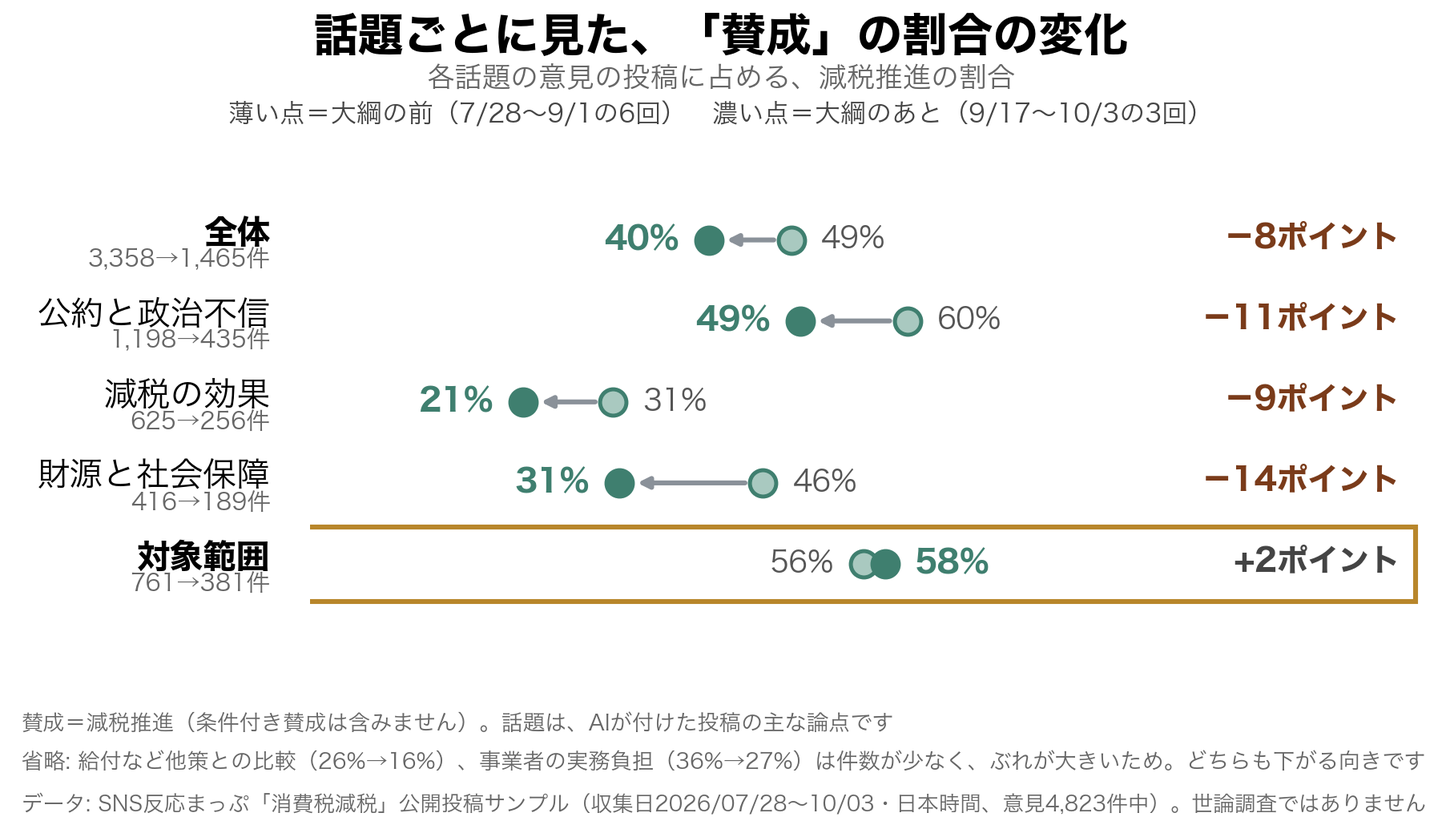
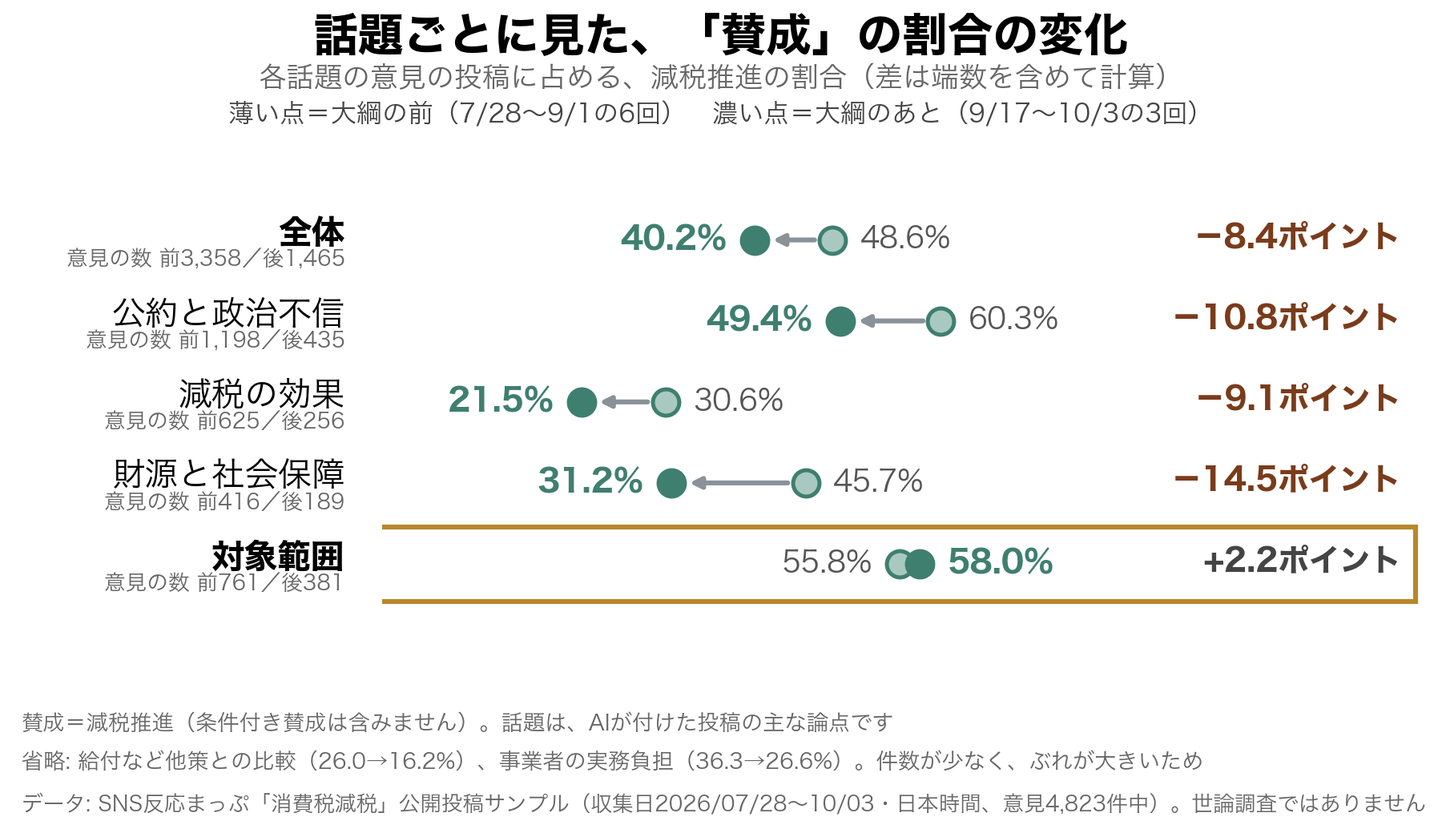
note第4回: 独立確認2回目の指摘を反映する（世論調査の誤差と回答者数、話題の構成、図の表示、一次資料、見出し画像案）

diff --git a/content/note/drafts/figures/consumption-tax-cut4_note-header.html b/content/note/drafts/figures/consumption-tax-cut4_note-header.html
@@ -22,8 +22,8 @@
   .stat .n2{color:#9c3c1a;}
   /* 第4回は、2つの数字（SNSの賛成と世論調査の賛成）を並べる型。矢印の型から外れる（オーナーが決める） */
   .pair .row{display:flex;align-items:baseline;gap:26px;line-height:1.08;white-space:nowrap;}
-  .pair .lab{font-size:84px;font-weight:700;color:#6b5d44;min-width:230px;letter-spacing:.02em;}
-  .pair .num{font-weight:900;font-size:190px;letter-spacing:-.02em;}
+  .pair .lab{font-size:72px;font-weight:700;color:#6b5d44;min-width:200px;letter-spacing:.02em;}
+  .pair .num{font-weight:900;font-size:150px;letter-spacing:-.02em;}
   .pair .n1{color:#1f5c4d;}
   .pair .n2{color:#9c3c1a;}
   .brand{position:absolute;right:44px;bottom:36px;font-size:24px;font-weight:700;letter-spacing:.06em;color:#5c5340;}
@@ -35,7 +35,7 @@
     <div class="scrim"></div>
     <div class="text">
       <div class="eyebrow">消費税減税シリーズ　第4回</div>
-      <div class="pair"><div class="row"><span class="lab">SNS</span><span class="num n1">4割</span></div><div class="row"><span class="lab">世論</span><span class="num n2">5割</span></div></div>
+      <div class="pair"><div class="row"><span class="lab">SNS</span><span class="num n1">49→40%</span></div><div class="row"><span class="lab">世論</span><span class="num n2">48→53%</span></div></div>
     </div>
     <div class="brand">SNS反応まっぷ</div>
   </div>

diff --git a/content/note/drafts/figures/consumption-tax-cut4_build.py b/content/note/drafts/figures/consumption-tax-cut4_build.py
@@ -364,7 +364,7 @@ def show(s: dict) -> None:
     print(f"\n[現金給付への言及] 「支援金」という語を含む意見 {s['support_mentions']}件（うち大綱のあとの3回に{s['support_mentions_post']}件。残りは8/3の別の話題）、「給付付き」「税額控除」に触れる意見 {s['benefit_mentions']}件（意見{s['n_opinion']:,}件中）")
     print("\n[件数の動きは割合の言い直し（記事では件数を根拠に使わない）] 1回の収集で新しく見つかった意見の数（平均）前6回 → あと3回")
     for label, d in s["counts_by_group"].items():
-        print(f"  {label}: " + " / ".join(f"{st[:4]} {a:.0f}→{b:.0f}({(b / a - 1) * 100:+.0f}%)" for st, (a, b) in d.items()))
+        print(f"  {label}: " + " / ".join(f"{st[:4]} {a:.1f}→{b:.1f}({(b / a - 1) * 100:+.0f}%)" for st, (a, b) in d.items()))
     print("  生データ（取得した1ページ全体）の件数と、1検索語あたりの最大件数: " + "、".join(f"{d} {n}件・最大{m}" for d, n, m in s["raw_cap"]))
     nb, ka, na, kb, nb2 = s["both_users_share"]
     print(f"\n[決定の前後の両方に書いた{nb}人だけで見た賛成の割合] {pct(ka, na):.1f}%（{na}投稿）→ {pct(kb, nb2):.1f}%（{nb2}投稿）")
@@ -395,7 +395,7 @@ def figs(s: dict) -> None:
                "世論調査ではありません")
     small = [(i, s["topics"][i]) for i in SMALL]
     note1 = "賛成＝減税推進（条件付き賛成は含みません）。話題は、AIが付けた投稿の主な論点です"
-    note2 = "省略: " + "、".join(f"{i}（{pct(*t['pre']):.0f}%→{pct(*t['post']):.0f}%）" for i, t in small) + "は件数が少なく、ぶれが大きいため。どちらも下がる向きです"
+    note2 = "省略: " + "、".join(f"{i}（{pct(*t['pre']):.1f}→{pct(*t['post']):.1f}%）" for i, t in small) + "。件数が少なく、ぶれが大きいため"
 
     rows = [("全体", s["pre"][PRO], s["post"][PRO])] + [(lab, s["topics"][i]["pre"], s["topics"][i]["post"]) for lab, i in
                                                        (("公約と政治不信", "公約と政治不信"), ("減税の効果", "減税の効果"), ("財源と社会保障", "財源と社会保障"), ("対象範囲", "減税の対象範囲"))]
@@ -411,22 +411,22 @@ def figs(s: dict) -> None:
         ax.scatter([a_], [y], s=140, color=pale, edgecolor=teal, linewidth=1.8, zorder=3)
         ax.scatter([b_], [y], s=140, color=teal, edgecolor=teal, linewidth=1.8, zorder=3)
         lf = a_ < b_
-        ax.text(a_ + (-3.0 if lf else 3.0), y, f"{a_:.0f}%", ha="right" if lf else "left", va="center", fontproperties=reg, fontsize=fs(11), color="#555555", zorder=4)
-        ax.text(b_ + (3.0 if lf else -3.0), y, f"{b_:.0f}%", ha="left" if lf else "right", va="center", fontproperties=bold, fontsize=fs(11.5), color=teal, zorder=4)
+        ax.text(a_ + (-3.0 if lf else 3.0), y, f"{a_:.1f}%", ha="right" if lf else "left", va="center", fontproperties=reg, fontsize=fs(11), color="#555555", zorder=4)
+        ax.text(b_ + (3.0 if lf else -3.0), y, f"{b_:.1f}%", ha="left" if lf else "right", va="center", fontproperties=bold, fontsize=fs(11.5), color=teal, zorder=4)
         diff = b_ - a_
-        ax.text(110, y + 0.03, f"{diff:+.0f}ポイント".replace("-", "−"), ha="right", va="center", fontproperties=bold, fontsize=fs(11.5), color="#7a3b1a" if diff < -4 else "#444444")
+        ax.text(110, y + 0.03, f"{diff:+.1f}ポイント".replace("-", "−"), ha="right", va="center", fontproperties=bold, fontsize=fs(11.5), color="#7a3b1a" if diff < -4 else "#444444")
         ax.text(-4.0, y + 0.07, label, ha="right", va="center", fontproperties=bold if label in ("全体", "対象範囲") else reg, fontsize=fs(12.5))
-        ax.text(-4.0, y - 0.25, f"{na:,}→{nb:,}件", ha="right", va="center", fontproperties=reg, fontsize=fs(8.8), color="#666666")
+        ax.text(-4.0, y - 0.25, f"意見の数 前{na:,}／後{nb:,}", ha="right", va="center", fontproperties=reg, fontsize=fs(8.0), color="#666666")
     ax.set_xlim(0, 112)
     ax.set_ylim(-0.7, len(rows) - 0.3)
     ax.axis("off")
     fig.text(0.5, 0.955, "話題ごとに見た、「賛成」の割合の変化", ha="center", va="center", fontproperties=bold, fontsize=fs(17))
-    fig.text(0.5, 0.905, "各話題の意見の投稿に占める、減税推進の割合", ha="center", va="center", fontproperties=reg, fontsize=fs(10.5), color="#666666")
+    fig.text(0.5, 0.905, "各話題の意見の投稿に占める、減税推進の割合（差は端数を含めて計算）", ha="center", va="center", fontproperties=reg, fontsize=fs(10.5), color="#666666")
     fig.text(0.5, 0.862, "薄い点＝大綱の前（7/28〜9/1の6回）　濃い点＝大綱のあと（9/17〜10/3の3回）", ha="center", va="center", fontproperties=reg, fontsize=fs(9.6), color="#444444")
     fig.text(0.015, 0.118, note1, ha="left", va="bottom", fontproperties=reg, fontsize=fs(8.2), color="#666666")
     fig.text(0.015, 0.072, note2, ha="left", va="bottom", fontproperties=reg, fontsize=fs(8.2), color="#666666")
     fig.text(0.015, 0.022, caption, ha="left", va="bottom", fontproperties=reg, fontsize=fs(8.0), color="#666666")
-    fig.subplots_adjust(left=0.215, right=0.985, top=0.78, bottom=0.255)
+    fig.subplots_adjust(left=0.265, right=0.985, top=0.78, bottom=0.255)
     out = OUT_DIR / "consumption-tax-cut4_fig2-topic-support.png"
     fig.savefig(out)
     plt.close(fig)

diff --git a/quality/reviews/2026-10-07-note-taxcut-4.md b/quality/reviews/2026-10-07-note-taxcut-4.md
@@ -1,34 +1,80 @@
-# note消費税減税第4回（SNSの賛否の推移編）の品質確認
+# note消費税減税第4回（SNSの賛成の推移編）の品質確認
 
 - 日付: 2026-10-07
 - 媒体: note
 - 案件: 「消費税減税」第4回（最終回）「SNSの賛成の推移：SNSと世論調査の動きの違い」の公開候補（note記事タイトル案「消費税減税の賛成はSNSで5割から4割へ。世論調査では下がらなかった」）
 - 担当部門: 編集部AI（制作）/ 独立確認（制作とは別のエージェントが、承認ではなく問題探しの立場で実施）
-- 判定: （独立確認の結果を待って記入）
+- 判定: ready_for_ceo（独立確認2回目の判定。blocker 0件。軽い指摘（should-fix 7件、nit 6件）は反映済み）。想定読者の1文と骨子①〜④、第3回の予告の扱いは、オーナーの確認待ち
 
 ## 状況更新
 
-- 2026-10-07: オーナーの「第4回作成。消費税減税テーマに推移グラフを追加した。このデータを使った内容は作れるか。noslopとよみやすも入れたので活用して」を受けて作成。貼り付け用原稿（`content/note/drafts/consumption-tax-cut-note4-FINAL.md`）、図2（`consumption-tax-cut4_fig2-posts-by-round.png`）、図1（サイトの推移グラフ詳細版を書き換えずに保存した `consumption-tax-cut4_fig1-site-trend-detail_20261003.png`）、数字と図を再現するスクリプト（`content/note/drafts/figures/consumption-tax-cut4_build.py`）、見出し画像の合成用HTMLと描画スクリプトを作成。見出し画像の背景写真は未生成（オーナーがGPTimage2で生成する。依頼プロンプトは原稿内）。
-- 推移グラフのデータは「作れる。ただし書けるのは、SNS上の意見の構成の変化まで」。サイトのページ自身が「世論の変化も、同じ人の意見の変化も示さない」と書いている。数字を自分で数え直すと、見かけの上下には、古い投稿の混ざり方（9/24の戻り）と、分類AIの切り替え（10/3の回）が混じっていた。そこで記事の主張は「SNSの賛成の割合の低下は、世論の変化ではなく、賛成の投稿が減ったことの表れ」に定め、日経・テレ東の世論調査（7月48%→9月53%）と並べて示す形にした。
-- 第3回は2026-10-04 13:47にnote公開済み（`content/note/posts.md` に今回追記）。公開版は更新前の数字（意見4,340件）の版で、末尾で「次回は就業者負担軽減支援金を読む」と予告している。第4回は、支援金という語を含む意見が12件しかなく声と照らして読む材料が足りないため、推移を扱うことにした（記事の「このシリーズについて」に書いた）。
+- 2026-10-07: オーナーの「第4回作成。消費税減税テーマに推移グラフを追加した。このデータを使った内容は作れるか。noslopとよみやすも入れたので活用して」を受けて作成。貼り付け用原稿（`content/note/drafts/consumption-tax-cut-note4-FINAL.md`）、図2（話題ごとの賛成の割合。`consumption-tax-cut4_fig2-topic-support.png`）、図1（サイトの推移グラフの「ひと目版」を書き換えずに保存した `consumption-tax-cut4_fig1-site-trend-summary_20261003.png`）、数字と図を再現するスクリプト（`content/note/drafts/figures/consumption-tax-cut4_build.py`）、見出し画像の合成用HTMLと描画スクリプトを作成。見出し画像の背景写真は未生成（オーナーがGPTimage2で生成する。依頼プロンプトは原稿内）。
+- 推移グラフのデータは「作れる。ただし書けるのは、SNS上の意見の構成の変化まで」。サイトのページ自身が「世論の変化も、同じ人の意見の変化も示さない」と書いている。自分で数え直すと、見かけの上下には、回に混ざる古い投稿の量（9/24の戻り）と、分類AIの切り替え（10/3の回）が混じっていた。
+- 記事の主張は、初稿では「賛成の割合の低下は、賛成の投稿が減ったことの表れ」だったが、独立確認1回目で、その根拠（1回の収集で新しく見つかった件数）が検索の上限のため割合の言い直しにすぎないと分かり、「SNSの賛成の割合の低下は、世論の変化とは読めない。下がったのは財源・公約・効果の話題で、対象範囲では下がっていない」に組み替えた。根拠は、日経・テレ東の世論調査との対比（7月48%→9月53%）と、話題ごとの賛成の割合。
+- 第3回は2026-10-04 13:47にnote公開済み（`content/note/posts.md` に今回追記）。公開版は更新前の数字（意見4,340件）の版で、末尾で「次回は就業者負担軽減支援金を読む」と予告している。第4回は、大綱のあとの意見のうち「支援金」を含むものが10件ほどで声と照らして読む材料が足りないため、推移を扱うことにした（記事の「このシリーズについて」に書いた）。
 - 未実施: 想定読者の1文（note-operationスキルにより編集部＝オーナーが決める）、骨子①〜④のオーナー確認、見出し画像の背景写真と合成、タグ5個、マガジン追加、note下書きへの反映、投稿。
 
 ## 独立確認の経過
 
-（独立確認の結果を待って記入）
+**1回目（判定 needs_revision。blocker 1件、should-fix 11件、nit 7件。数字の誤りは0件）** 主な指摘と対応:
+- 1（blocker）中心の主張の根拠が弱い: 「賛成の投稿が減り、反対・慎重は変わらない」の根拠は「1回の収集で新しく見つかった意見の数」だが、検索は1語あたり最大40件の1ページ目だけを読むので、件数は割合の言い直しになる。毎回20件以上拾える12検索語では、賛成は207件から166件に減り、反対・慎重は76件から96件に増えていた。全20語で「反対・慎重は約150件のまま」に見えたのは、増えた語と、新しく見つかる数が細った語（残り8語、賛成も反対・慎重も減る）が打ち消し合った偶然。→ 自分でも生データ（`social-samples/updates/consumption-tax-cut/*/raw.json`、1語あたり最大40件）と分類済みデータで確かめて、指摘どおりと分かった。件数を根拠から外し、見出し・図2・冒頭・見出し画像案を組み替えた。件数の話は、注記に「根拠に使っていない」と明記して残した。
+- 2「賛成の人が書く量が減ったと読むほうが数字に合う」に根拠がない: 世論調査は国民全体を測るので、X投稿者の中の賛成の人が減ったかには答えない。決定の前後の両方に書いた179人だけで見ても、賛成の割合は52.8%から44.1%に下がる。→ 文を削り、「賛成の人が減ったのか、書く人が入れ替わったのかは、まだ分けられない」とし、179人の動きと、賛成→反対・慎重15人／逆3人を不利な事実として本文に置いた。
+- 3 賛成の定義: 冒頭で「賛成＝減税推進。条件付き賛成を含まない」と定義し、足すと66.0%→58.8%で向きは同じことを書いた。
+- 4 時期: 「決定」を「大綱」に統一し、9/2〜9/16は未収集、9/17の回の約2割は9/14以前の投稿、9/17の内閣改造を書いた。「下がった時期を大綱の日に絞ることも、大綱が原因だと言うこともできません」。
+- 5 9/24の戻りの説明: 「見かけの動き」をやめ、「4日以上前に書かれた投稿が3割含まれていたため。それを除くと戻りは消える」に弱めた（その古い投稿の大半は9/18〜20、つまり大綱のあとに書かれた投稿で、賛成は50.0%）。
+- 7 世論調査の書き方: 「のまま」「保っている」をやめ、質問文の違い、「大綱のあとに賛成の割合を公表した調査で確認できたのは日経・テレ東の1本だけ」、標本数の未確認を書いた。
+- 8 支援金: 12件のうち大綱のあとの3回は10件（残り2件は8/3の別の話題）。「大綱のあとの意見1,465件のうち10件ほど」に直した。
+- 9〜19 数字の数を減らす、「6割」の時制、注記の前提（ぶれは投稿の拾い方に偏りがない場合）、図1をひと目版に、図2の表記、反対・慎重側の引用を1件足す、「廃止」にインボイス廃止が含まれる、「大綱」の初出の言い換、メモ欄の更新、など。
+
+**2回目（差し替えた箇所の確認。判定 ready_for_ceo。blocker 0件、should-fix 7件、nit 6件。数字の誤りは0件）**: 前回のblocker（件数を根拠にした「賛成が減り、反対・慎重は変わらない」）は解消。新しく出た数字も、独立確認が自分のコードで数え直して全部一致した。指摘と対応:
+- 1 世論調査の書き方: 5ポイントの差を誤差の目安なしで「高くなっています」と書いていた。→ テレビ東京の記事ページで回答者数（7月924人、9月1,007人、固定・携帯電話）を確認し、「5ポイントの差は誤差の範囲かもしれません」と書いた。8月の調査は「賛成や『評価する』という答え」と原文どおりにした。注記に回答者数と聞き方で変わることを書いた。
+- 2 「話題の構成は大きくは変わっていません」「同じ話題の中で下がっています」: 公約と政治不信の話題の割合は35.7→29.7%（−6.0ポイント）で、ぶれを超え、対象範囲は下がっていない。→ 「話題の構成は少し動きました」と書き、構成を大綱の前にそろえても41%（実際の40%とほぼ同じ）、「対象範囲を除く話題の中で、それぞれ下がっている」とした。
+- 3 話題ごとのカッコ書きの件数（1,198件から435件）が、件数が減ったように読める。→ 割合の分母（前が6回分、あとが3回分の合計）と書き直し、図2の行ラベルも「意見の数 前3,358／後1,465」にした。
+- 4 図2の差が、四捨五入した数字の引き算とずれる。→ 図の割合を小数1桁にし、差は端数を含めて計算したと注記した。
+- 5 図1の件数と右端の38%が、本文の「件数は根拠にしない」「40%」と食い違って見える。→ 図1の下に説明を1段落足した。9/24の戻りは「収集日を含む3日以内に書かれた投稿に絞ると、41%で戻りは消えます」とした。
+- 6 一次資料メモに内閣改造の記載がない。→ 資料Vを追加し、注記に時事通信と日本経済新聞のURLを入れた。メモの「逆を向いた」を「同じようには動かなかった」にした。
+- 7 見出し画像案「SNS 4割／世論 5割」は、定義の違う2つの水準を並べ、「SNSはもともと賛成が少ない」と読める（条件付き賛成を足すとSNSは58.8%）。→ 動きの向きを並べる「SNS 49→40%／世論 48→53%」に変えた。
+- 8〜13 冒頭を「世論の変化を示すものとは読みません」に、「5割前後でいる」を直し、「この記事で分かること」に「反対・慎重の人が増えたのか」を足し、反対・慎重の件数を76.5件と書き、文の長さと語尾の連続を直した。数字の種類の多さ（規則の「4種類まで」を超える）は、オーナーが許容を決める。
 
 ## 確認結果
 
-（独立確認の結果を待って記入）
+- 事実・意見・推測の区別: 主張は地の文（冒頭「SNSで賛成の割合が下がったことを、世論の変化とは読みません」）に置き、数字・世論調査の記述と分けている。賛成の割合が下がった理由は「この集計では分けられない」とし、推測を事実のように書かない。大綱が原因だとも言っていない。
+- 一次資料・出所: 日本経済新聞・テレビ東京の世論調査3本（見出し・配信日時・要約文を配信ページで確認。記事本文は会員限定のため未確認）、大綱（資料N。9月15日閣議決定）、年表（`configs/consumption-tax-background.json`）、9月17日の内閣改造（時事・日経・Wikipediaの記載）。`quality/research/consumption-tax-cut-primary-sources.md` の資料Uに記録。
+- 数字: 本文・図・注記の数字は `consumption-tax-cut4_build.py numbers` で再現できる。スクリプトは、サイトの「意見の推移」の表と全回の件数・立場別の件数が一致することを、実行のたびに確かめる。独立確認が自分のコードで全数字を数え直し、本文・注記・図2・メモ欄・サイトの表のすべてが一致した（1回目）。
+- 世論調査との比較の限界: 質問の文言が7月（現金給付つきの案）と9月（法案）で違う。調査方法・標本数は未確認。大綱のあとに賛成の割合を公表した調査で確認できたのは1本だけ。48%→53%は、誤差の範囲かもしれない。そのため記事は「下がっていない」と書き、「上がった」とは書いていない。
+- SNSサンプルの限界: リードに「無作為抽出の世論調査ではなく、SNS公開投稿のサンプル分析です」、注記に検索の上限、同じ人を追えない（投稿者の9割は1回しか出ない）、AI分類の揺れ、分類AIの切り替え（10/3の回から。9/17と24の2回だけで比べても賛成は41%で、決定の前より7ポイント低い）を明記した。
+- 分類AIの履歴: 回ごとの記録（`data/verification/updates/consumption-tax-cut/*/report.json`）があるのは9/17以降の3回（9/17・24は kimi-k2.6、10/3は kimi-k2.7-code）。それ以前の6回は、保存日時（8/17 08:19、8/24 13:29、9/1 22:17）と、モデル切替の記録（8/18 20:02〜8/20 19:18の minimax-m2.7、9/6の発見まで）から、同じAIとみなせる。確信度の分布も、7/28〜9/1の6回は9/17・24と区別がつかず、10/3だけ違う（独立確認）。
+- 引用の正確性: 本文のX投稿3件（向日葵 sunchild0223、ホンゴウ fts5b、hana buncho hanadori2）を、Xの埋め込みAPIで存在と表示名を確認した。特定の政党・政治家・団体の宣伝や、個人攻撃はない。候補のうち、政党の地区組織のアカウント、政治家名を表示名に含むアカウントは外した。賛成側2件、反対・慎重側1件。
+- 図1の利用条件: サイトの推移グラフの「ひと目版」を、書き換えずに（サイトの画像と同じバイト列）使い、出典（SNS反応まっぷ）とリンクを明記した。利用条件（`scripts/build_trend_section.py` の `EMBED_TERMS`）は満たしている。
+- 多様な立場への配慮: 賛成側（公約を守ってほしい、もっと広く下げてほしい）と反対・慎重側（財源を問う）の声を並べ、どちらも愚かに描いていない。世論調査の数字を「正解」とは扱わず、聞き方で変わると書いた。
+- 自分に不利な事実: 賛成の割合の低下は数え方を変えても出ること、179人だけで見ても賛成が減ること、賛成→反対・慎重が逆より多いこと、世論調査は質問が違うこと、AIが替わったことを、本文で自分から先に書いた。
+- 著作権・個人情報・安全: 日経の記事は本文を引用せず、公開されている要約文の数字だけを使った。投稿は埋め込み3件のみ。表示名以上の個人特定情報はない。
+- 規則との差: note-operationスキルの「本文に置く数字は4種類まで」は超えている（比較の柱に必要な割合と、不利な事実の数字を本文に残したため）。件数は本文で5回（上限8）。「スタンスマップの画像を貼る」の代わりに、推移グラフ（図1）と話題別の図（図2）を使う。「他人の投稿は原文を載せない」は、公開済みの第1〜3回と同じ運用（埋め込み）に合わせた。
+- 計測・リンク: UTM付きテーマページリンク4本（`after_chart`/`after_topics`/`after_conclusion`/`footer`、`utm_campaign=note_taxcut4_20261007`＝暫定の日付）、うち「投票」型が2本。新ドメイン `sns-reaction-map.jp`。1本目は推移の節へ直接飛ぶ（`#consumption-tax-cut-trend`）。
 
 ## よみやす・noslopの活用
 
-（結果を待って記入）
+この回は、よみやす（`scripts/review_with_yomiyasu.py --strict`）と noslop（`noslop check --genre essay --no-config`）、`scripts/verify_ai_tone.py` を、書いて直すたびに実行した。noslop は、別セッションの導入作業（`task/noslop-advisory`）がまだ main に入っていないため、`~/.local/bin/noslop` を直接呼んだ。
+
+- **よみやす**: 初稿は65/100（「ます」の3連続で止まる）。語尾を入れ替えるのではなく、文の組み立てを直して98/100にした。
+- **noslop**: 初稿の本文で、AIっぽさの指摘（重大）5件。すべて R05（否定してから肯定する対比の繰り返し。文書全体で5回）。指摘の場所は、冒頭の主張文、「この記事で分かること」、必須の注記、見出し、本文1か所、結びの5か所。必須の注記（「無作為抽出の世論調査ではなく」）だけを残し、4か所を肯定文に直した（最終版は指摘0件）。読みやすさの指摘として、「の」の連鎖（P16）を本文と注記の複数か所、実験的ルールの文頭の繰り返し（R08「SNSの」「決定の前」）を数か所直した。**noslopの指摘が理由で直した箇所は、合計10か所以上。** よみやすも「AではなくB」を情報として出すが、1か所ずつの指摘で、文書全体での回数は noslop だけが数えた。
+- **noslopが拾わなかったもの**: 同じ文末の連続（「ます」「です」「ません」）、読点の数、比喩動詞。これはよみやす・`verify_ai_tone.py`の担当。URL行や画像の指示行をまたぐ語尾の連続は、よみやすも見逃すので、読者の目に映る文の並びで確認する補助検査（作業用の自作）で拾った。
+- **noslopの限界**: 数字の根拠の弱さ（今回の blocker）は見えない。独立確認が見つけた。
+- **verify_ai_tone.py**: 語尾の連続（「ません」「でした」「ています」「ました」）を、書き直すたびに数回止めた。
+- **ルールの設定**: R03（長い文）とP15（連続漢字）は、別セッションの設定どおり止めた。実験的ルールは参考に1回だけ実行した。
 
 ## 残るリスクと戻し方
 
-（独立確認の結果を待って記入）
+- リスク1（世論調査との対比の強さ）: 世論調査の質問が違い、標本数が未確認で、大綱のあとの調査は1本だけ。「下がっていない」と書くにとどめている。公開前に、大綱のあとの別の調査（共同通信の9/17〜18、ほか）を探し直す。
+- リスク2（更新データとのずれ）: 次の更新（予定10/10）の後に公開する場合は、`consumption-tax-cut4_build.py numbers` と `figs` を再実行し、図1の画像を新しい版に替え、本文・注記の数字と「次の収集は10月10日の予定」を直す。
+- リスク3（分類AIの切り替え）: 10/3の回だけAIが違う。サイトの推移グラフの注意書きには出ていない（別作業として切り出し済み）。記事は注記と本文で明記し、10/3を除いた確認を載せた。
+- リスク4（第3回の予告）: 公開済みの第1〜3回は「第4回は現金給付の設計」と書いている。オーナーが、支援金の回を別に作るか、第1〜3回の記述を直すかを決める。
+- リスク5（引用投稿の消失）: 本文のX投稿3件は、2026-10-07にXの埋め込みAPIで存在を確認した。削除されると表示されない。貼り付け時に確認する。
+- リスク6（承認記録）: 第2回（9/29）・第3回（10/4）の公開は、`company/APPROVALS.yaml` に記録が無い（第1回は approval-20260921-002）。第4回は公開前に記録する。
+- 戻し方: 本文・図・スクリプトはすべて新規ファイルで、既存の公開物は変えていない。取り下げは `task/taxcut-note4` のマージを取り消せば元に戻る（追加のファイル群と、台帳・一次資料メモ・投稿記録への追記のみ）。
 
 ## CEOへ渡す内容
 
-（独立確認の結果を待って記入）
+- 何を公開するか: 「消費税減税」第4回（最終回）「SNSの賛成の推移：SNSと世論調査の動きの違い」のnote記事（無料公開）。
+- 理由: 消費税減税のページに加わった「意見の推移」のデータを使い、SNSの賛成の割合の動きを、世論調査と並べて読む。SNSの数字を世論として読む誤りを防ぎ、サイトの推移グラフ（利用条件つきで配布している画像）を、解釈の注意つきで届けるため。
+- 承認が必要なこと: 想定読者の1文と骨子①〜④の確認、第3回の予告と第1〜3回の「全4回」表記の扱い、見出し画像の背景写真の生成、note下書きへの貼り付けと「投稿する」操作（タグ・マガジン設定を含む）、公開前の `company/APPROVALS.yaml` への記録。

diff --git a/quality/research/consumption-tax-cut-primary-sources.md b/quality/research/consumption-tax-cut-primary-sources.md
@@ -123,10 +123,18 @@
   - 日本経済新聞 / 「食料品の消費税1%法案、賛成53%反対41% 日経世論調査」 / 2026-09-21 02:00 JST / https://www.nikkei.com/article/DGXZQOUA17BAP0X10C26A9000000/ / 要約文: 日本経済新聞社とテレビ東京による18〜20日の世論調査で食料品の消費税を1%に引き下げる法案への賛否を聞いた。「賛成だ」は53%、「反対だ」は41%。自民党支持層65%、無党派層45%が賛成、野党支持層は反対が52%
 - 確かめられる事実:
   - 同じ調査主体（日本経済新聞社・テレビ東京）で、7月24〜26日の賛成48%・反対44%から、大綱の閣議決定（9月15日）のあとの9月18〜20日は賛成53%・反対41%。賛成は下がっていない
-  - 質問の文言は同じではない。7月は「2年限定で1%に下げ、中・低所得層に現金を給付する案」、9月は「1%に引き下げる法案」。調査方法・標本数は要約文からは確認できていない
+  - 質問の文言は同じではない。7月は「2年限定で1%に下げ、中・低所得層に現金を給付する案」、9月は「1%に引き下げる法案」
+  - 調査方法・回答者数は、テレビ東京の記事ページ（本文を取得して確認）にある。7月調査（7月24〜26日）は18歳以上924人、9月調査（9月18〜20日）は18歳以上1,007人で、どちらも固定・携帯電話による聞き取り。https://txbiz.tv-tokyo.co.jp/readings/2927 （7月。税の質問と48%・44%も同ページ）、https://txbiz.tv-tokyo.co.jp/readings/2938 （9月。税の質問は日経の記事にあり、このページには無い）
+  - 二つの調査の差（48%→53%）の95%区間は、単純無作為抽出を仮定すると約±4.5ポイントで、5ポイントは境界線上（独立確認の計算と、自分の計算で一致）
   - 【注意】世論調査（無作為の標本）とSNSの投稿サンプルは性質が違う。本文は「SNSの賛成が下がった時期に世論調査の賛成は下がっていない」と並べるだけで、世論調査の動きを評価していない
 - 参考（検索結果の要約で見つけた他社の調査。配信ページを直接確認していないので、本文では使っていない）: 朝日新聞 8/29〜30 賛成55%・反対37%、読売新聞 8/21〜23 賛成54%・反対40%、FNN 8/8〜9 賛成52.9%・反対40.6%
-- 使いどころ: note第4回「同じころの世論調査では、賛成は5割前後を保っている」の節。SNSの賛成の割合の低下を、世論の変化と読めない根拠
+- 使いどころ: note第4回「同じころの世論調査では、賛成は5割前後だった」の節。SNSの賛成の割合の低下を、世論の変化を示すものと読めない補助の根拠（最も強い根拠は、SNSの標本の性質: 自分で投稿を決める人の標本、検索1回の上限、回ごとに違う投稿の古さ、分類AIの切り替え）
+- 確認日: 2026-10-07
+
+### 資料V（9月17日の内閣改造：note第4回の「時期の注意」の根拠）
+- 時事通信 / 「第２次高市改造内閣が発足 「決断と実行」主要閣僚留任―裏金議員起用、林氏は退任・維新から初入閣」 / 2026-09-17 21:40 JST / https://www.jiji.com/jc/article?k=2026091700731&g=pol / 要約文: 第２次高市改造内閣は１７日夕、皇居での認証式を経て発足した。昨年10月の就任以降初の内閣改造
+- 日本経済新聞 / 「高市改造内閣が発足 藤井比早之・総務相や笹川博義・環境相ら初入閣7人」 / 2026-09-17 08:03 JST / https://www.nikkei.com/article/DGXZQOUA152770V10C26A9000000/ / 要約文: 第2次高市早苗改造内閣が17日、発足した
+- 確かめられる事実: 9月17日に内閣改造があった。SNSの「9月17日の回」（9月15日〜17日に書かれた投稿が大半）は、この日と重なる。内閣改造が消費税減税への賛否に影響したかは、このデータでは分からない（本文は「下がった時期を大綱の日に絞ることも、大綱が原因だと言うこともできません」と書く）
 - 確認日: 2026-10-07
 
 ## 3. 対象範囲
